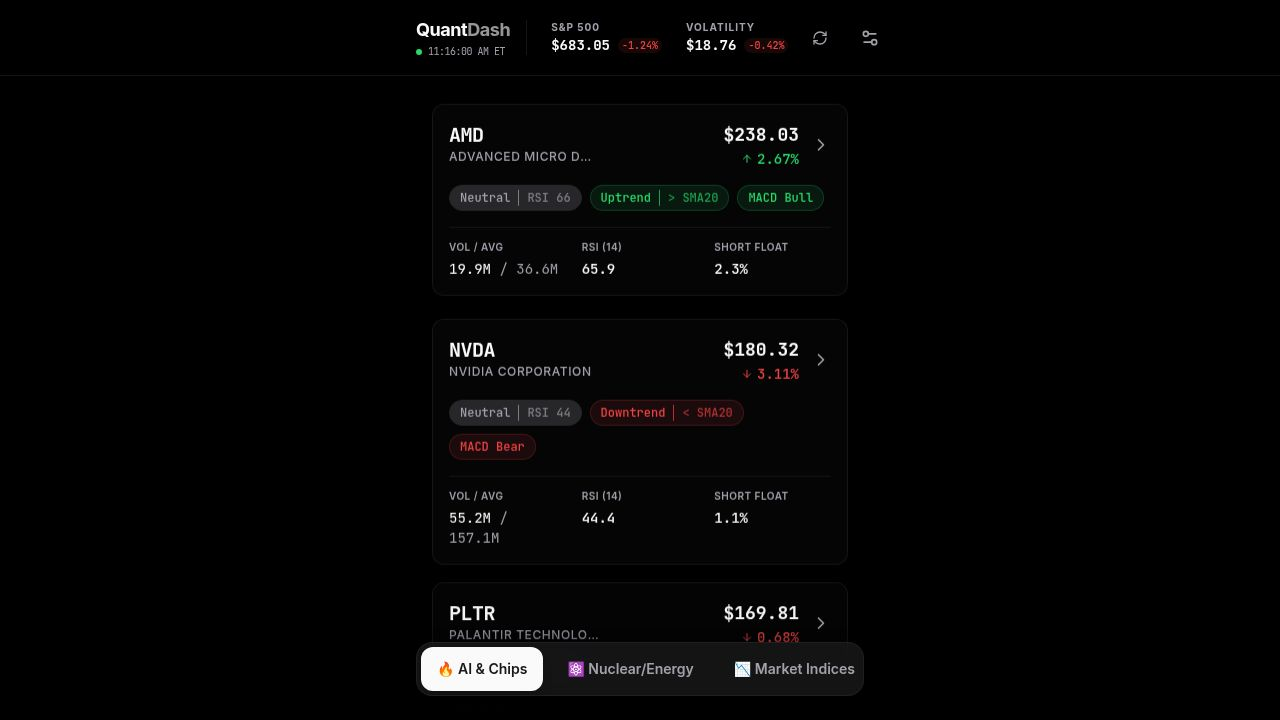
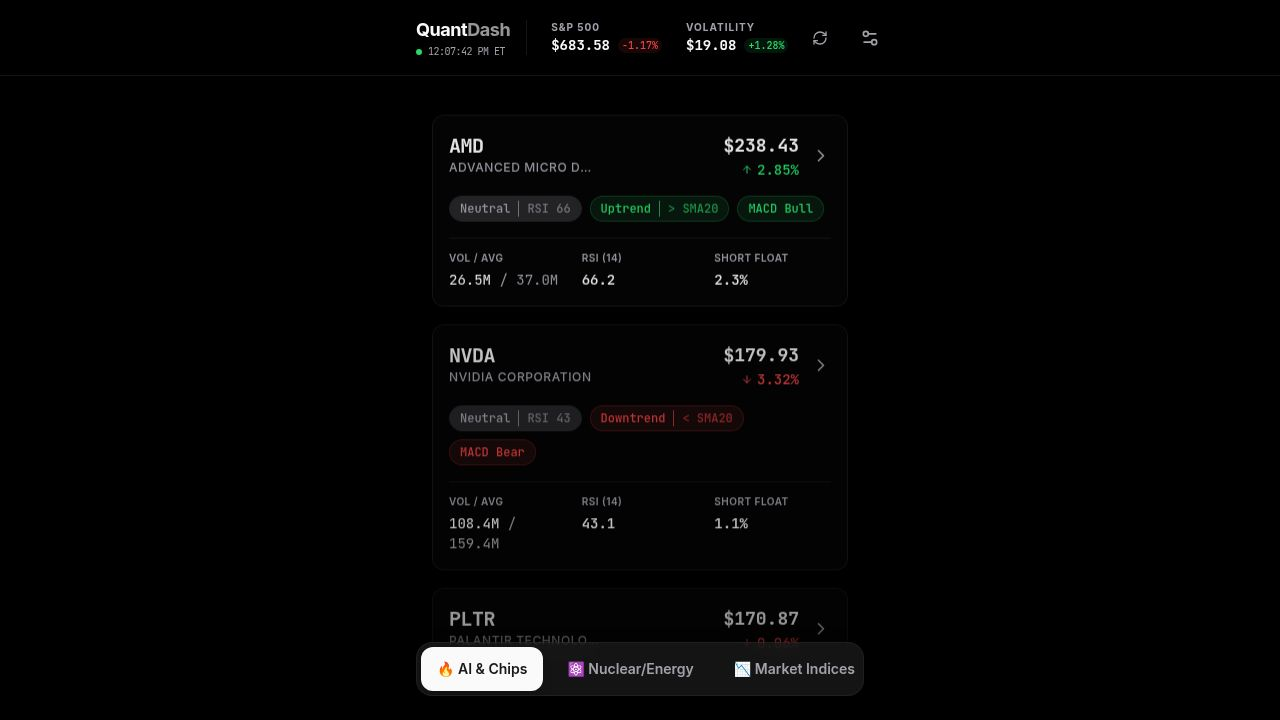
Improve stock detail modal and indicator tooltip usability
Update `StockDetailModal` to prevent text selection and ensure the close button remains visible. Modify `IndicatorTooltip` to allow scrolling for long content and prevent text selection.

Replit-Commit-Author: Agent
Replit-Commit-Session-Id: 4dde9d96-f035-4d70-b207-d6f16afed253
Replit-Commit-Checkpoint-Type: full_checkpoint
Replit-Commit-Event-Id: fbdd9772-487c-4e0a-8038-2637d2bb5a04
Replit-Commit-Screenshot-Url: https://storage.googleapis.com/screenshot-production-us-central1/bb86e5cd-a52b-4c09-9669-111bf28001be/4dde9d96-f035-4d70-b207-d6f16afed253/F0cGzuB
Replit-Helium-Checkpoint-Created: true

diff --git a/client/src/components/IndicatorTooltip.tsx b/client/src/components/IndicatorTooltip.tsx
@@ -91,13 +91,13 @@ export function IndicatorTooltip({ indicator, value, children, className }: Indi
               initial={{ scale: 0.9, opacity: 0 }}
               animate={{ scale: 1, opacity: 1 }}
               exit={{ scale: 0.9, opacity: 0 }}
-              className="bg-card border border-border w-full max-w-sm rounded-2xl shadow-2xl overflow-hidden select-none cursor-pointer"
+              className="bg-card border border-border w-full max-w-sm max-h-[80vh] rounded-2xl shadow-2xl overflow-hidden select-none cursor-pointer flex flex-col"
               onClick={(e) => {
                 e.stopPropagation();
                 setIsOpen(false);
               }}
             >
-              <div className="flex justify-between items-center p-4 border-b border-border bg-secondary/30">
+              <div className="flex-shrink-0 flex justify-between items-center p-4 border-b border-border bg-secondary/30">
                 <div className="flex items-center gap-2">
                   <Info className="w-5 h-5 text-primary" />
                   <h3 className="font-bold text-foreground">{explanation.title}</h3>
@@ -105,7 +105,7 @@ export function IndicatorTooltip({ indicator, value, children, className }: Indi
                 <X className="w-5 h-5 text-muted-foreground" />
               </div>
               
-              <div className="p-4 space-y-4">
+              <div className="p-4 space-y-4 overflow-y-auto flex-1">
                 {value !== undefined && (
                   <div className="text-center p-3 bg-secondary/50 rounded-xl">
                     <div className="text-2xl font-mono font-bold text-foreground">

diff --git a/client/src/components/StockDetailModal.tsx b/client/src/components/StockDetailModal.tsx
@@ -72,10 +72,10 @@ export function StockDetailModal({ ticker, isOpen, onClose }: StockDetailModalPr
             animate={{ y: 0 }}
             exit={{ y: "100%" }}
             transition={{ type: "spring", damping: 25, stiffness: 300 }}
-            className="bg-card border border-border w-full max-w-lg rounded-t-3xl sm:rounded-2xl shadow-2xl max-h-[90vh] overflow-y-auto"
+            className="bg-card border border-border w-full max-w-lg rounded-t-3xl sm:rounded-2xl shadow-2xl max-h-[90vh] overflow-y-auto select-none"
             onClick={(e) => e.stopPropagation()}
           >
-            <div className="sticky top-0 bg-card/95 backdrop-blur-md border-b border-border p-4 flex justify-between items-center">
+            <div className="sticky top-0 z-10 bg-card/95 backdrop-blur-md border-b border-border p-4 flex justify-between items-center">
               <div>
                 <h2 className="text-xl font-bold font-mono">{ticker}</h2>
                 <p className="text-xs text-muted-foreground truncate max-w-[200px]">
